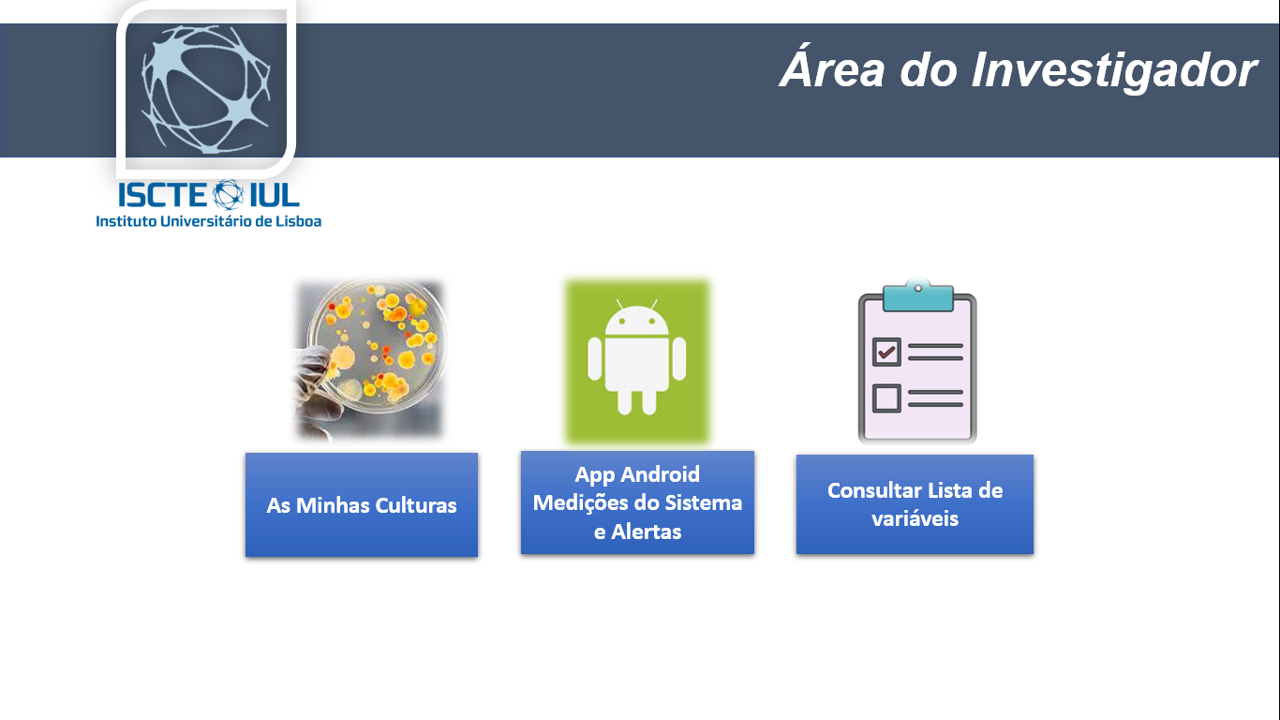
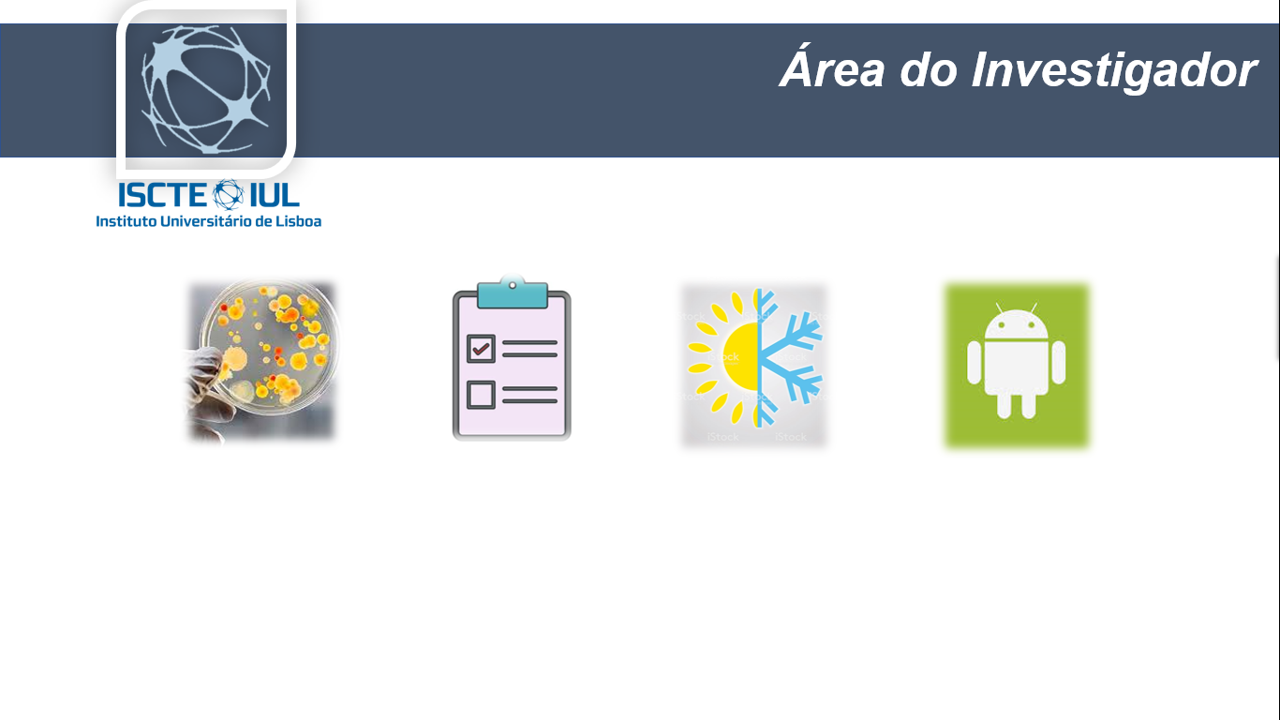
Upgrades nas interfaces - funcionalidades em falta

Changed region(s): [[0.125, 0.3667, 0.875, 0.7944]]

diff --git a/Monitorizacao_Culturas/src/pt/iscte/sid/projeto/GUI/InserirDados.java b/Monitorizacao_Culturas/src/pt/iscte/sid/projeto/GUI/InserirDados.java
@@ -24,7 +24,9 @@ import pt.iscte.sid.projeto.Machine.DatabaseMiddleManForInvestigador;
 public class InserirDados {
     
     private DatabaseMiddleManForInvestigador databaseConnection;
-    private JFrame frame;
+    private JFrame frmConsultarListaVariveis;
+    private JTextField textField;
+    private JTextField textField_1;
     
     
     
@@ -53,20 +55,20 @@ public class InserirDados {
     }
     
     private void CloseWindow() {
-        frame.setVisible(false);
+        frmConsultarListaVariveis.setVisible(false);
     }
     /**
      * Initialize the contents of the frame.
      */
     private void initialize() {
-        frame = new JFrame();
-        frame.getContentPane().setBackground(Color.WHITE);
-        frame.setTitle("Consultar Vari\u00E1veis");
-        frame.setBounds(100, 100, 850, 600);
-        frame.setDefaultCloseOperation(JFrame.EXIT_ON_CLOSE);
-        frame.getContentPane().setLayout(null);
+        frmConsultarListaVariveis = new JFrame();
+        frmConsultarListaVariveis.getContentPane().setBackground(Color.WHITE);
+        frmConsultarListaVariveis.setTitle("Consultar Lista Vari\u00E1veis");
+        frmConsultarListaVariveis.setBounds(100, 100, 850, 600);
+        frmConsultarListaVariveis.setDefaultCloseOperation(JFrame.EXIT_ON_CLOSE);
+        frmConsultarListaVariveis.getContentPane().setLayout(null);
         
-        frame.setVisible(true);
+        frmConsultarListaVariveis.setVisible(true);
         
         
         
@@ -81,11 +83,11 @@ public class InserirDados {
         ListSelectionModel selectVariaveis= table.getSelectionModel();
         selectVariaveis.setSelectionMode(ListSelectionModel.SINGLE_SELECTION);
         JScrollPane scrollPane = new JScrollPane(table);
-        scrollPane.setBounds(110, 204, 618, 262);
+        scrollPane.setBounds(112, 191, 620, 204);
         scrollPane.setViewportView(table);
         scrollPane.setVisible(true);
         scrollPane.setBounds(112, 191, 620, 165);
-        frame.getContentPane().add(scrollPane);
+        frmConsultarListaVariveis.getContentPane().add(scrollPane);
         
         
         
@@ -105,6 +107,39 @@ public class InserirDados {
         
         JLabel lblNewLabel_1 = new JLabel("Aqui fica a tabela Variaveis ver https://www.youtube.com/watch?v=hg1S3QHFNrE");
         lblNewLabel_1.setBounds(209, 166, 496, 14);
+        
+        JButton btnVoltar = new JButton("Voltar");
+        btnVoltar.setBounds(725, 509, 84, 23);
+        btnVoltar.addActionListener(new ActionListener() {
+            public void actionPerformed(ActionEvent e) {
+                new AreaInvestigador(databaseConnection);
+                CloseWindow();
+            }
+        });
+        
+        frmConsultarListaVariveis.getContentPane().add(btnVoltar);
+        
+        textField = new JTextField();
+        textField.setBounds(251, 406, 95, 29);
+        frmConsultarListaVariveis.getContentPane().add(textField);
+        textField.setColumns(10);
+        
+        JLabel lblSeleccionaridDaVarivel = new JLabel("Seleccionar ID da Vari\u00E1vel");
+        lblSeleccionaridDaVarivel.setBounds(112, 412, 149, 16);
+        frmConsultarListaVariveis.getContentPane().add(lblSeleccionaridDaVarivel);
+        
+        JLabel lblSeleccionarIdDa_1 = new JLabel("Seleccionar ID da Cultura");
+        lblSeleccionarIdDa_1.setBounds(112, 459, 149, 16);
+        frmConsultarListaVariveis.getContentPane().add(lblSeleccionarIdDa_1);
+        
+        textField_1 = new JTextField();
+        textField_1.setColumns(10);
+        textField_1.setBounds(251, 446, 95, 29);
+        frmConsultarListaVariveis.getContentPane().add(textField_1);
+        
+        JButton btnNewButton = new JButton("Associar Nova Vari\u00E1vel \u00E0 Cultura\r\n");
+        btnNewButton.setBounds(369, 431, 189, 23);
+        frmConsultarListaVariveis.getContentPane().add(btnNewButton);
         //frame.getContentPane().add(lblNewLabel_1);
         
         JLabel lblNewLabel = new JLabel(/*"VER https://www.youtube.com/watch?v=hg1S3QHFNrE"*/);
@@ -115,18 +150,7 @@ public class InserirDados {
         
         
         
-        frame.getContentPane().add(lblNewLabel);
-        
-        JButton btnVoltar = new JButton("Voltar");
-        btnVoltar.setBounds(715, 526, 84, 23);
-        btnVoltar.addActionListener(new ActionListener() {
-            public void actionPerformed(ActionEvent e) {
-                new AreaInvestigador(databaseConnection);
-                CloseWindow();
-            }
-        });
-        
-        frame.getContentPane().add(btnVoltar);
+        frmConsultarListaVariveis.getContentPane().add(lblNewLabel);
         
         JLabel lblSeleccionaridDaCultura = new JLabel("ID da Cultura");
         lblSeleccionaridDaCultura.setBounds(39, 529, 149, 16);

diff --git a/Monitorizacao_Culturas/src/pt/iscte/sid/projeto/GUI/LoginWindow.java b/Monitorizacao_Culturas/src/pt/iscte/sid/projeto/GUI/LoginWindow.java
@@ -70,17 +70,18 @@ public class LoginWindow extends JFrame {
         frame.setBounds(100, 100, 850, 600);
         frame.setVisible(true);
         contentPanel = new JPanel();
+        contentPanel.setBounds(0, 0, 834, 561);
         contentPanel.setBackground(Color.WHITE);
         contentPanel.setBorder(new EmptyBorder(5, 5, 5, 5));
         //setContentPane(contentPanel);
         contentPanel.setLayout(null);
         
-        PasswordLabel = new JLabel("Password");
+        PasswordLabel = new JLabel("");
         PasswordLabel.setForeground(new Color(255, 255, 255));
         PasswordLabel.setBounds(508, 227, 59, 25);
         contentPanel.add(PasswordLabel);
         
-        Emaillabel = new JLabel("Email");
+        Emaillabel = new JLabel("");
         Emaillabel.setForeground(new Color(255, 255, 255));
         Emaillabel.setBounds(508, 179, 59, 25);
         contentPanel.add(Emaillabel);
@@ -88,14 +89,14 @@ public class LoginWindow extends JFrame {
         
         
         EmailInputField = new JTextField();
-        EmailInputField.setBounds(600, 179, 244, 37);
+        EmailInputField.setBounds(592, 154, 242, 37);
         contentPanel.add(EmailInputField);
         EmailInputField.setColumns(10);
         
         LoginButton = new JButton("Entrar");
         LoginButton.setForeground(Color.WHITE);
         LoginButton.setBackground(Color.DARK_GRAY);
-        LoginButton.setBounds(652, 292, 95, 34);
+        LoginButton.setBounds(648, 270, 95, 34);
         contentPanel.add(LoginButton);
         
         /*  JRadioButton radioButton = new JRadioButton("");
@@ -111,18 +112,18 @@ public class LoginWindow extends JFrame {
         contentPane.add(UserSelectionRadioButton);
         */
         PasswordInputField = new JPasswordField();
-        PasswordInputField.setBounds(600, 227, 244, 37);
+        PasswordInputField.setBounds(592, 202, 242, 37);
         contentPanel.add(PasswordInputField);
         
         JLabel fundoPagina = new JLabel("");
-        fundoPagina.setBounds(0, 33, 844, 506);
+        fundoPagina.setBounds(-31, 0, 875, 521);
         
         //ImageIcon imgFundo = new ImageIcon(SubscreverUtilizador.class.getResource("images/LoginWindow.png"));
-        ImageIcon imgOne = new ImageIcon("/Monitorizacao_Culturas/src/images/LoginWindow.png");
-        //imgFundo.getImage().getScaledInstance(fundoPagina.getWidth(), fundoPagina.getHeight(), Image.SCALE_SMOOTH);
-        fundoPagina.setIcon(new ImageIcon(LoginWindow.class.getResource("/images/LoginWindow.png")));
+        ImageIcon imgOne = new ImageIcon(LoginWindow.class.getResource("/images/LoginWindow.png"));
+        Image img = imgOne.getImage().getScaledInstance(fundoPagina.getWidth(), fundoPagina.getHeight(), Image.SCALE_SMOOTH);
         
-        
+        fundoPagina.setIcon(new ImageIcon(img));
+       
         contentPanel.add(fundoPagina);
         
         frame.getContentPane().add(contentPanel);

diff --git a/Monitorizacao_Culturas/src/pt/iscte/sid/projeto/GUI/ConfigurarLimites.java b/Monitorizacao_Culturas/src/pt/iscte/sid/projeto/GUI/ConfigurarLimites.java
@@ -56,9 +56,6 @@ public class ConfigurarLimites extends JFrame {
     }
 
     
-    
-    
-    
     /**
      * Create the frame.
      */
@@ -126,7 +123,7 @@ public class ConfigurarLimites extends JFrame {
         selectInves.setSelectionMode(ListSelectionModel.SINGLE_SELECTION);
         JScrollPane Invesjs=new JScrollPane(table);
         Invesjs.setVisible(true);
-        Invesjs.setBounds(55, 195, 466, 225);
+        Invesjs.setBounds(46, 191, 475, 229);
         contentPanel.add(Invesjs);
         
         JButton btnAdicionarNovosLimites = new JButton("Adicionar Novos Limites");
@@ -162,16 +159,6 @@ public class ConfigurarLimites extends JFrame {
         IdtextField.setColumns(10);
         IdtextField.setBounds(202, 447, 70, 29);
         contentPanel.add(IdtextField);
-        
-        JLabel imagemFundo = new JLabel("");
-        imagemFundo.setBounds(0, 0, 834, 420);
-        Image imgm = img.getImage().getScaledInstance(imagemFundo.getWidth(), imagemFundo.getHeight(), Image.SCALE_SMOOTH);
-        
-        
-        
-        imagemFundo.setIcon(new ImageIcon (imgm));
-        
-        contentPanel.add(imagemFundo);
         
         JLabel  lblIdDosLimites = new JLabel("ID dos Limites");
         lblIdDosLimites.setBounds(120, 453, 86, 16);
@@ -241,7 +228,7 @@ public class ConfigurarLimites extends JFrame {
         frame.getContentPane().add(contentPanel);
         
         JButton ButtonLoadTable = new JButton("Atualizar tabela");
-        ButtonLoadTable.setBounds(600, 431, 162, 30);
+        ButtonLoadTable.setBounds(612, 431, 162, 30);
         ButtonLoadTable.addActionListener(new ActionListener() {
             public void actionPerformed(ActionEvent e) {
                 contentPanel.remove(Invesjs);
@@ -261,6 +248,16 @@ public class ConfigurarLimites extends JFrame {
             }
         });
         contentPanel.add(ButtonLoadTable);
+        
+        JLabel imagemFundo = new JLabel("");
+        imagemFundo.setBounds(0, 0, 834, 420);
+        Image imgm = img.getImage().getScaledInstance(imagemFundo.getWidth(), imagemFundo.getHeight(), Image.SCALE_SMOOTH);
+        
+        
+        
+        imagemFundo.setIcon(new ImageIcon (imgm));
+        
+        contentPanel.add(imagemFundo);
     }
       private String[][] GetList(String arg)
     {

diff --git a/Monitorizacao_Culturas/src/pt/iscte/sid/projeto/GUI/AreaInvestigador.java b/Monitorizacao_Culturas/src/pt/iscte/sid/projeto/GUI/AreaInvestigador.java
@@ -74,11 +74,7 @@ public class AreaInvestigador extends JFrame {
         contentPanel.setLayout(null);
         
         ImageIcon imgTopo = new ImageIcon(SubscreverUtilizador.class.getResource("/images/areaInvestigador.png"));
-        
-        JLabel Menu = new JLabel("");
-        Menu.setBounds(212, 219, 363, 75);
         ImageIcon menu = new ImageIcon(SubscreverUtilizador.class.getResource("/images/MenuAreaInvest.png"));
-        contentPanel.add(Menu);
         
         JButton btnNewButton = new JButton("As Minhas Culturas");
         btnNewButton.addActionListener(new ActionListener() {
@@ -88,13 +84,26 @@ public class AreaInvestigador extends JFrame {
                 
             }
         });
+        
+        JButton btnLuzETemperatura = new JButton("Ver Luz/Temperatura");
+        btnLuzETemperatura.setFont(new Font("Tahoma", Font.BOLD, 11));
+        btnLuzETemperatura.addActionListener(new ActionListener() {
+        	public void actionPerformed(ActionEvent e) {
+                    new ConsultarLuzTemp(databaseConnection);
+                    CloseWindow();
+                    
+                
+        	}
+        });
+        btnLuzETemperatura.setBounds(410, 299, 189, 69);
+        contentPanel.add(btnLuzETemperatura);
         btnNewButton.setFont(new Font("Tahoma", Font.BOLD, 11));
-        btnNewButton.setBounds(157, 288, 162, 69);
+        btnNewButton.setBounds(81, 299, 162, 69);
         contentPanel.add(btnNewButton);
         
         JButton btnAppAndroid = new JButton("App Android");
         btnAppAndroid.setFont(new Font("Tahoma", Font.BOLD, 11));
-        btnAppAndroid.setBounds(336, 288, 169, 69);
+        btnAppAndroid.setBounds(598, 299, 169, 69);
         contentPanel.add(btnAppAndroid);
         
         JButton btnVerificarRegistoPessoal = new JButton("Consultar Vari\u00E1veis");
@@ -105,7 +114,7 @@ public class AreaInvestigador extends JFrame {
             }
         });
         btnVerificarRegistoPessoal.setFont(new Font("Tahoma", Font.BOLD, 11));
-        btnVerificarRegistoPessoal.setBounds(515, 288, 169, 69);
+        btnVerificarRegistoPessoal.setBounds(242, 299, 169, 69);
         contentPanel.add(btnVerificarRegistoPessoal);
         
         JButton btnLogout = new JButton("LogOut");

diff --git a/Monitorizacao_Culturas/src/pt/iscte/sid/projeto/GUI/ConsultarLuzTemp.java b/Monitorizacao_Culturas/src/pt/iscte/sid/projeto/GUI/ConsultarLuzTemp.java
@@ -101,7 +101,7 @@ public class ConsultarLuzTemp extends JFrame {
         
         JScrollPane jsLuz=new JScrollPane(tableLuz);
         jsLuz.setVisible(true);
-        jsLuz.setBounds(55, 218, 344, 204);
+        jsLuz.setBounds(48, 218, 359, 204);
         
         contentPanel.add(jsLuz);
         
@@ -115,7 +115,7 @@ public class ConsultarLuzTemp extends JFrame {
         
         JScrollPane jsTemp=new JScrollPane(tableTemp);
         jsTemp.setVisible(true);
-        jsTemp.setBounds(435, 221, 344, 197);
+        jsTemp.setBounds(417, 218, 366, 204);
         
         contentPanel.add(jsTemp);
         
@@ -129,7 +129,7 @@ public class ConsultarLuzTemp extends JFrame {
         
         JScrollPane jsSistema=new JScrollPane(tableSistema);
         jsSistema.setVisible(true);
-        jsSistema.setBounds(350, 450, 292, 50);
+        jsSistema.setBounds(342, 433, 359, 77);
         
         contentPanel.add(jsSistema);
         

diff --git a/Monitorizacao_Culturas/src/pt/iscte/sid/projeto/GUI/ManutencaoUtilizadores.java b/Monitorizacao_Culturas/src/pt/iscte/sid/projeto/GUI/ManutencaoUtilizadores.java
@@ -130,7 +130,7 @@ public class ManutencaoUtilizadores extends JFrame {
         });
         JScrollPane Adminjs=new JScrollPane(Admintable);
         Adminjs.setVisible(true);
-        Adminjs.setBounds(57, 219, 344, 202);
+        Adminjs.setBounds(10, 210, 402, 231);
         
         contentPanel.add(Adminjs);
         
@@ -158,7 +158,7 @@ public class ManutencaoUtilizadores extends JFrame {
         });
         JScrollPane Invesjs=new JScrollPane(Investable);
         Invesjs.setVisible(true);
-        Invesjs.setBounds(435, 219, 344, 202);
+        Invesjs.setBounds(422, 210, 402, 231);
         contentPanel.add(Invesjs);
         
         JTextField IdAdmin = new JTextField();

diff --git a/Monitorizacao_Culturas/src/pt/iscte/sid/projeto/GUI/ManutencaoVariaveis.java b/Monitorizacao_Culturas/src/pt/iscte/sid/projeto/GUI/ManutencaoVariaveis.java
@@ -162,7 +162,7 @@ public class ManutencaoVariaveis extends JFrame {
         selectInves.setSelectionMode(ListSelectionModel.SINGLE_SELECTION);
         JScrollPane Invesjs=new JScrollPane(table);
         Invesjs.setVisible(true);
-        Invesjs.setBounds(176, 194, 495, 175);
+        Invesjs.setBounds(176, 194, 517, 189);
         contentPanel.add(Invesjs);
         
         JLabel imagemFundo = new JLabel("");
